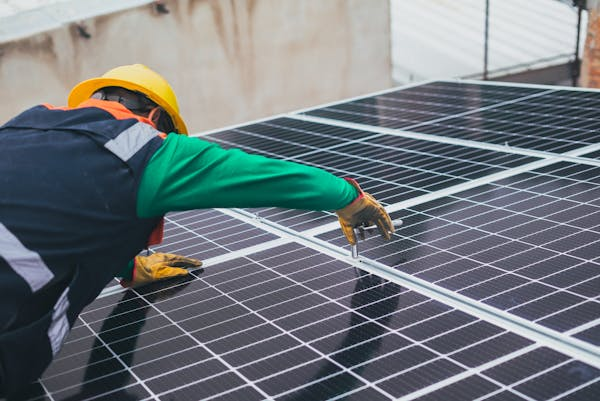
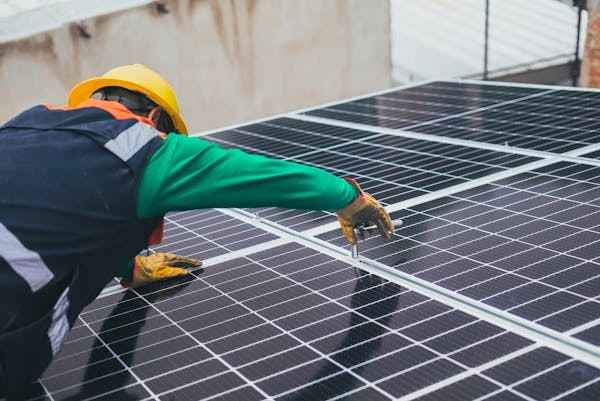
Service and product image size reducing

diff --git a/src/data/productData.ts b/src/data/productData.ts
@@ -4,7 +4,7 @@ export const products: ProductItem[] = [
   {
     id: 'p1',
     productName: 'Solar Air Conditioner',
-    image: 'solar_ac.webp',
+    image: 'solar_ac.jpeg',
     description: 'Energy-saving cooling solutions powered by solar panels, available in DC and hybrid models.',
     bullets: [
       'DC Solar Air Conditioner (100% Solar) — Runs directly on solar power from solar panels',
@@ -15,7 +15,7 @@ export const products: ProductItem[] = [
   {
     id: 'p2',
     productName: 'Solar Hot Water System',
-    image: 'solar_hot_water.webp',
+    image: 'solar_hot_water.jpeg',
     description: 'Reliable solar-powered water heating system for homes and commercial use with long lifespan.',
     bullets: [
       'Energy Savings — Uses free solar energy to reduce monthly bills',
@@ -29,7 +29,7 @@ export const products: ProductItem[] = [
   {
     id: 'p3',
     productName: 'Solar Water Pump',
-    image: 'solar_water_pump.webp',
+    image: 'solar_water_pum.jpeg',
     description: 'Efficient solar-driven water pumping solution designed for farms, gardens, and remote areas.',
     bullets: [
       'Efficient Performance — Ideal for small to medium water needs',
@@ -42,7 +42,7 @@ export const products: ProductItem[] = [
   {
     id: 'p4',
     productName: 'Solar Outdoor LED Lights',
-    image: 'solar_outdoor_light.webp',
+    image: 'solar_outdoor_light.jpg',
     description: 'Outdoor solar lighting solutions for streets, pathways, gardens, and security applications.',
     bullets: [
       'Solar Lighting Types — All-in-one street lights, split-type street lights, garden/pathway lights, flood lights, and motion-sensor lights for security and outdoor illumination',
@@ -54,7 +54,7 @@ export const products: ProductItem[] = [
   {
     id: 'p5',
     productName: 'On-Grid Solar System',
-    image: 'ongrid_solar_system.webp',
+    image: 'ongrid_solar_system.jpg',
     description: 'On-grid solar power system that reduces electricity bills through net metering and high efficiency.',
     bullets: [
       'Grid-Connected — Generates solar power and feeds excess energy to the utility grid while getting passive income',
@@ -69,7 +69,7 @@ export const products: ProductItem[] = [
 
     id: 'p6',
     productName: 'Off-Grid Solar System',
-    image: 'offgrid_solar_system.webp',
+    image: 'offgrid_solar_system.jpeg',
     description: 'Off-grid solar solution providing 24/7 power independence using solar panels and battery storage.',
     bullets: [
       'Fully Independent — Operates without grid connection using solar + battery storage',
@@ -83,7 +83,7 @@ export const products: ProductItem[] = [
   {
     id: 'p7',
     productName: 'Hybrid Solar System',
-    image: 'hybrid_solar_system.webp',
+    image: 'hybrid_solar_system.jpg',
     description: 'Hybrid solar system combining solar, battery, and grid power for maximum savings and backup.',
     bullets: [
       'Earn high income during peak time selling',
@@ -97,7 +97,7 @@ export const products: ProductItem[] = [
   {
     id: 'p8',
     productName: 'EV Charging Points - Commercial / Home',
-    image: 'ev_charging_points.webp',
+    image: 'ev_charging_points.jpg',
     description: 'Smart and safe EV charging solutions for homes, apartments, offices, and commercial locations.',
     bullets: [
       'Fast & Reliable Charging — Supports standard and fast-charging options',

diff --git a/src/data/serviceData.ts b/src/data/serviceData.ts
@@ -5,19 +5,19 @@ export const services: ServiceItem[] = [
     id: 's1',
     title: 'High efficient solar system designing',
     description: 'High-efficiency solar system design services using advanced engineering and energy analysis to maximize output, reduce costs, and deliver reliable performance for homes and businesses.',
-    image: 'solar-designing.webp'
+    image: 'solar-designing.jpeg'
   },
   {
     id: 's2',
     title: 'Solar installing',
     description: 'Professional solar panel installation services for residential and commercial properties. Our certified technicians ensure optimal placement and configuration for maximum energy production.',
-    image: 'solar-installing.webp'
+    image: 'solar-installing.jpeg'
   },
   {
     id: 's3',
     title: 'Solar item supply',
     description: 'Comprehensive supply of premium solar equipment including panels, inverters, batteries, mounting systems, and all necessary components from trusted international brands.',
-    image: 'solar-items.jpg'
+    image: 'solar-items.jpeg'
   },
   {
     id: 's4',
@@ -29,6 +29,6 @@ export const services: ServiceItem[] = [
     id: 's5',
     title: 'EV Fast charging & Home chargers',
     description: 'Installation and supply of electric vehicle charging solutions including fast charging stations for commercial use and convenient home chargers for residential properties.',
-    image: 'ev-charging.jpg'
+    image: 'ev-charging.jpeg'
   }
 ];
